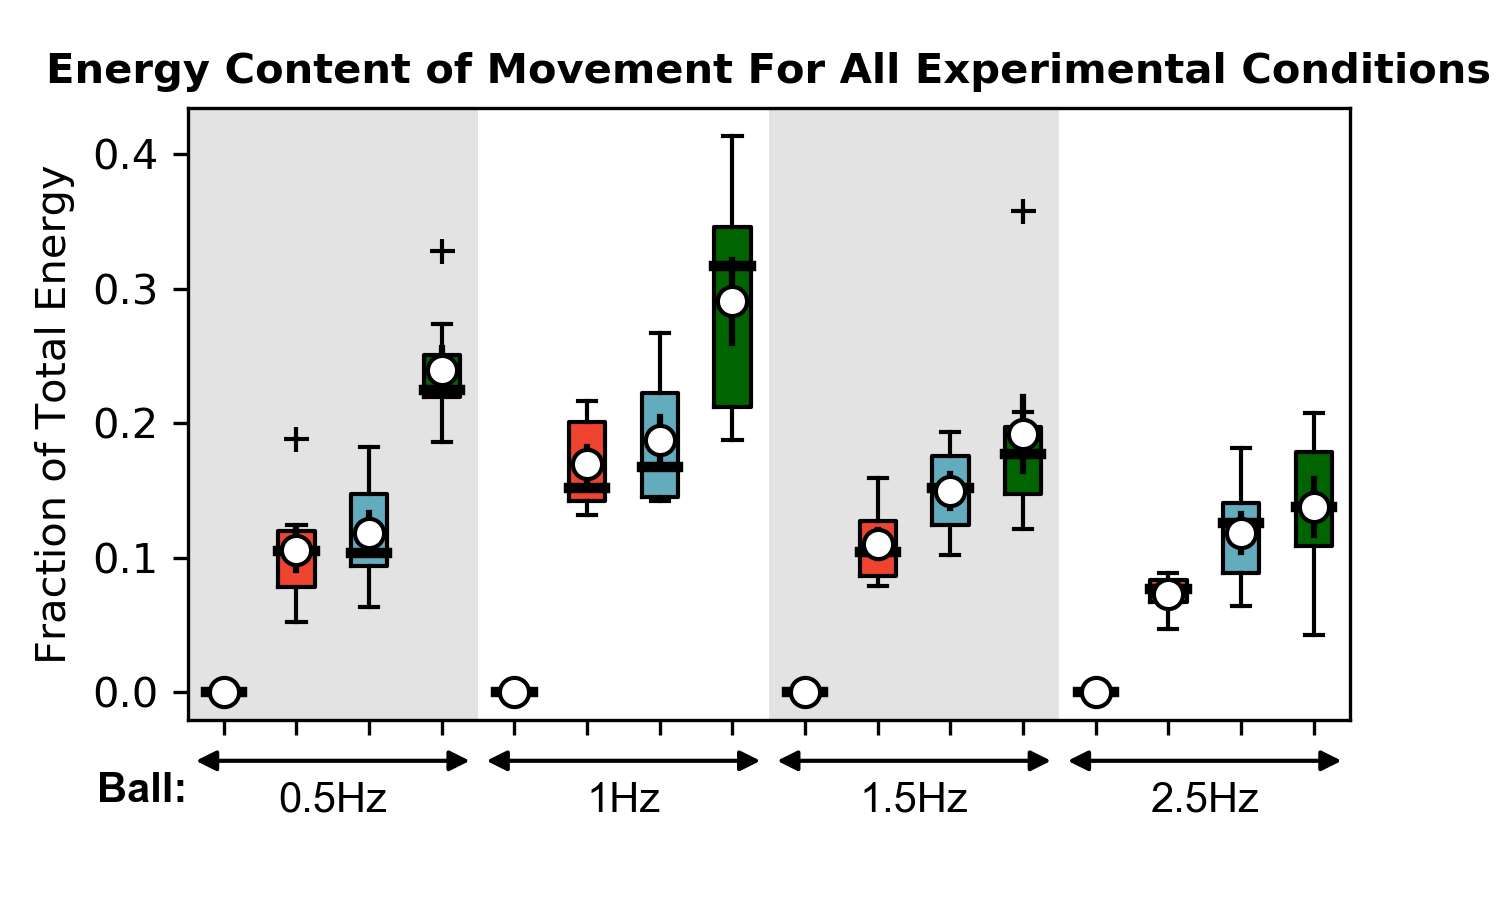
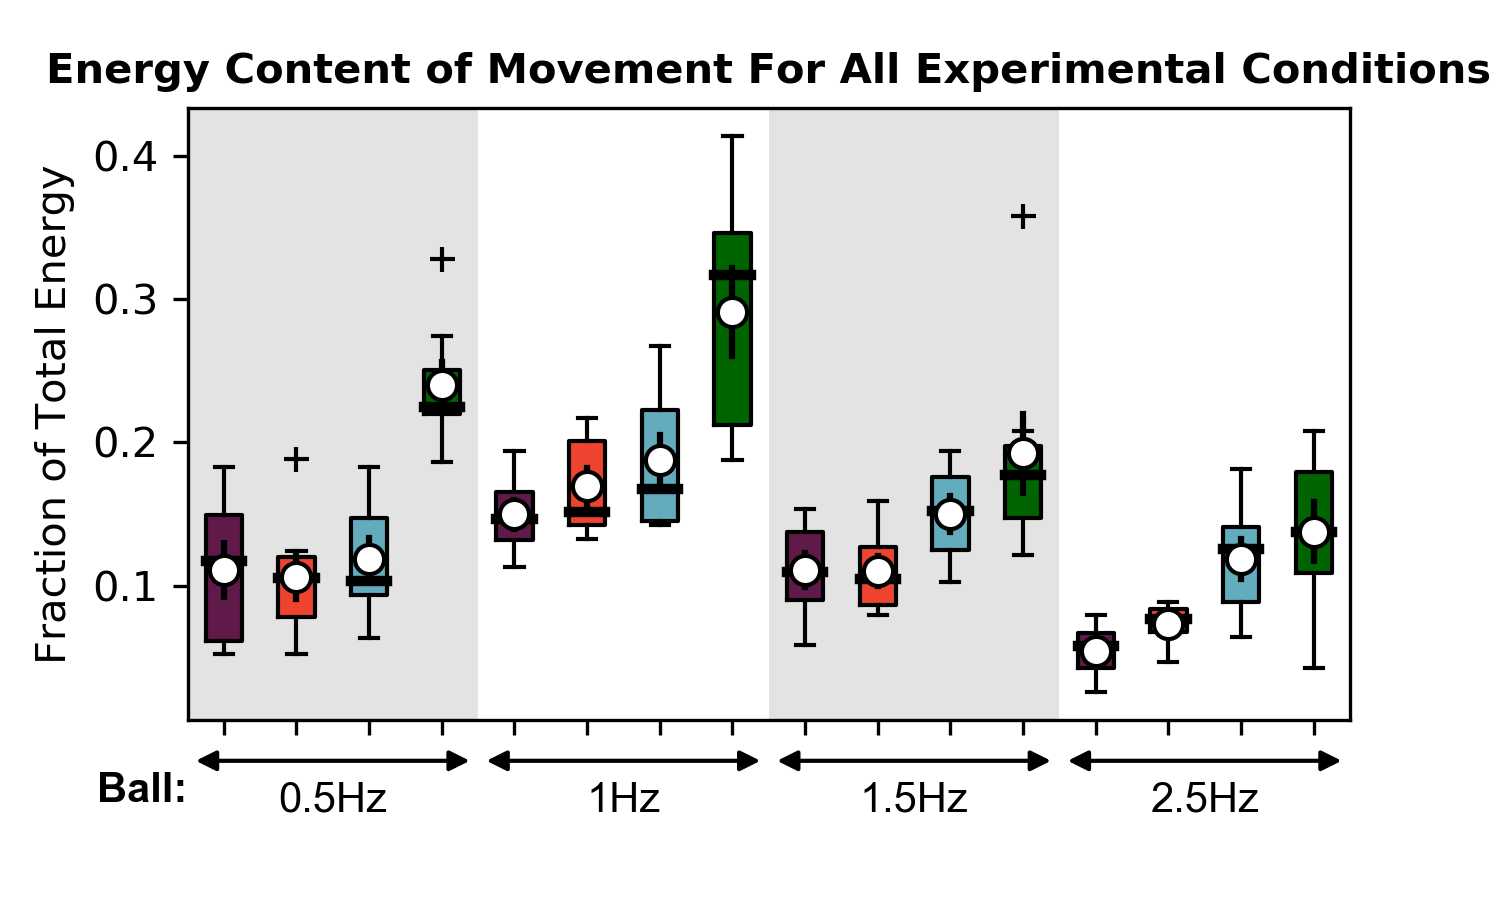
presentation updates

diff --git a/Fall2020-DataAnalysis/FreqAnalysis/frequency_analysis_S2_labmates-bib.py b/Fall2020-DataAnalysis/FreqAnalysis/frequency_analysis_S2_labmates-bib.py
@@ -24,7 +24,7 @@ import os
 # Edit these variables before running
 save_values = 0 # 0-do not save values for statistical tests 1-do save values
 make_plots = 1 # 0-do not make plots 1-make plots
-make_plot_each_sub = 1 # 0-do not make plots 1-make plots
+make_plot_each_sub = 0 # 0-do not make plots 1-make plots
 haptic_forces_added = 0 # Include adding the haptic forces as an experimental condition
 filter = 1
 window = .2
@@ -145,7 +145,17 @@ for sub_plot in range(1,1+num_sub_plots):
                         Ax_norm = normalize_spectrum(A_Fx_i,dw)
                         Ay_norm = normalize_spectrum(A_Fy_i,dw)
                         Amag_norm = normalize_spectrum(A_Fmag_i,dw)
+
+                        if group==0:
+                            freq=0
                         for freq2 in range(0,4):
+
+
+
+                                # if
+                                # freq2 = 0 == 1:
+                                #     break
+
                             freq_list = []
                             for w_i in range(0,len(w)):
                                 if (w[w_i] < freq_pendulum[freq2]+window) and (w[w_i] > freq_pendulum[freq2]-window):
@@ -292,12 +302,16 @@ for sub_plot in range(1,1+num_sub_plots):
             ## Boxplot comparing frequency metrics for force-condition group ###
             ####################################################################
             ####################################################################
-            if group != 0 and make_plot_each_sub==0:
+            # if group != 0 and make_plot_each_sub==0:
+            if make_plot_each_sub==0:
                 energy_mat = np.divide(energy_mat,energy_num)
                 data = []
                 for freq2 in range(0,4):
                     for freq in range(0,4):
-                        energy = energy_mat[freq,freq2,:]
+                        if group==0:
+                            energy = energy_mat[0,freq2,:]
+                        else:
+                            energy = energy_mat[freq,freq2,:]
                         data.append(np.array(energy))
 
                 # create lists for colors, labels, ect.
